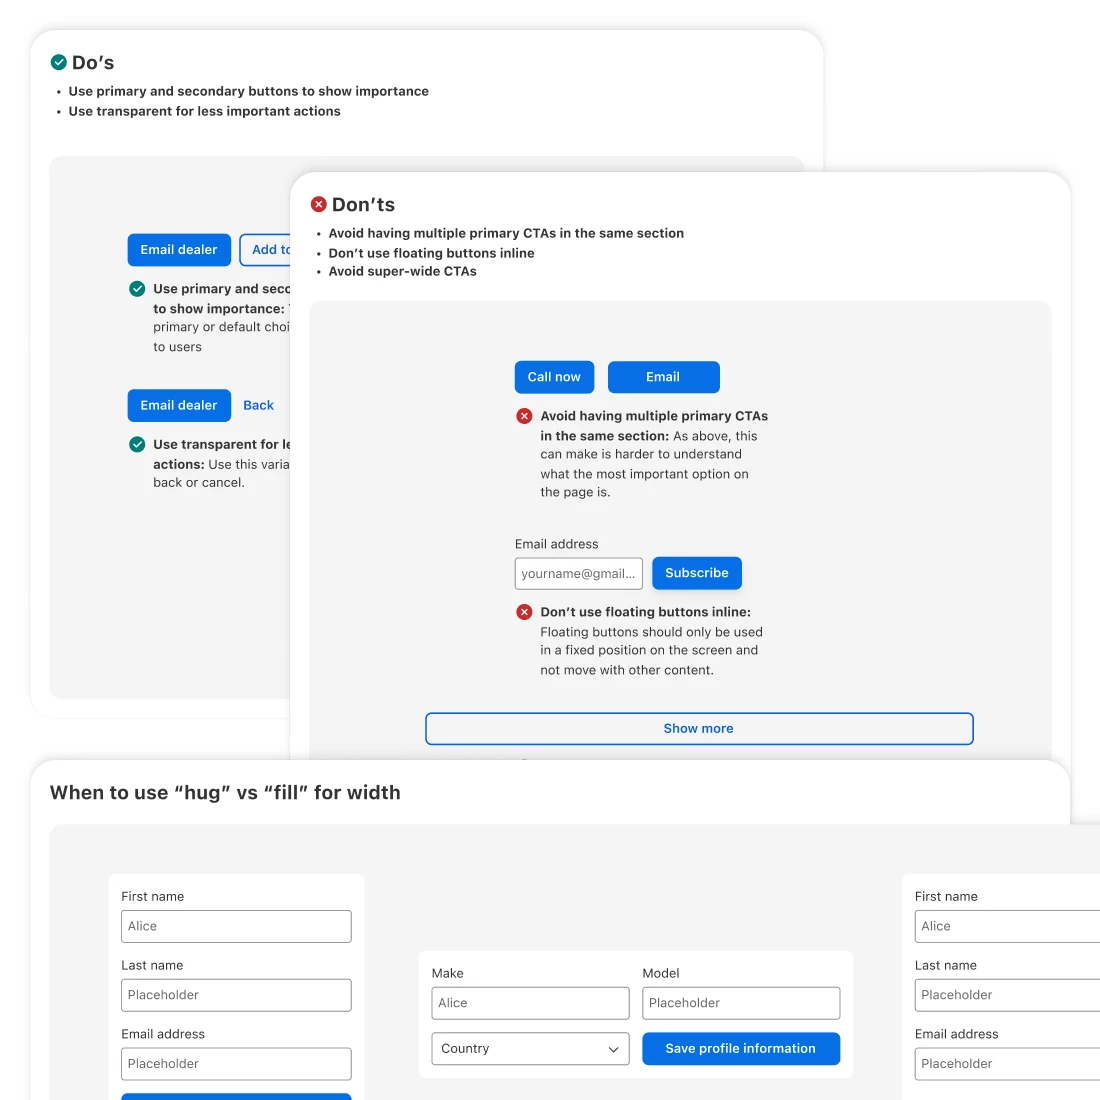
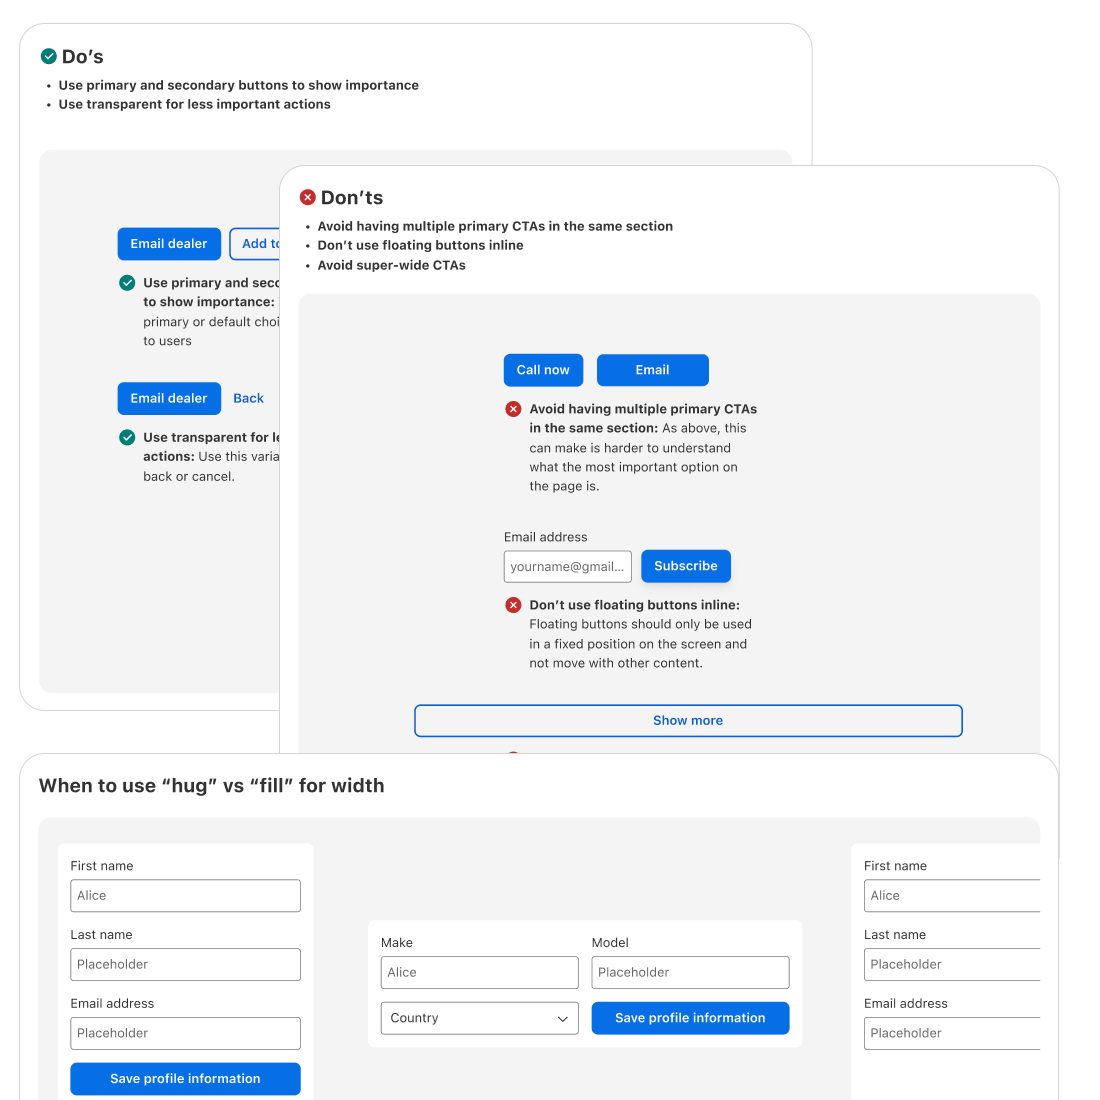
Updated docs image with a 1x copy
Claude-Session: https://claude.ai/code/session_016vAdai3CtSbqx1Acff8fYM

diff --git a/draft/work/showcar/index.html b/draft/work/showcar/index.html
@@ -134,7 +134,7 @@
   <img src="../../../assets/img/showcar/variables.webp?v=2" srcset="../../../assets/img/showcar/variables-550.webp?v=2 550w, ../../../assets/img/showcar/variables.webp?v=2 1100w" sizes="(max-width: 52rem) 100vw, 548px" width="1100" height="1100" loading="lazy" alt="Semantic and component tokens in Figma, with a column per brand mode (AS24, AS24-Future, ATCA). Each brand maps the same token to its own colour, for example surface brand is yellow for AS24 and red for ATCA. A menu shows the mode switcher: AS24, AS24-Future, ATCA, LM, GWAT, ATNL, AKNL and wireframe modes.">
 </div><figcaption class="cap">Brand themes as variable modes in Figma.</figcaption></figure>
 <figure><div class="shot natural" style="--ar: 1 / 1">
-  <img src="../../../assets/img/showcar/docs.webp" width="1100" height="1100" loading="lazy" alt="Showcar button documentation: a Do's panel (use primary and secondary buttons to show importance; use transparent buttons for less important actions), a Don'ts panel (avoid multiple primary CTAs in one section, don't use floating buttons inline, avoid super-wide CTAs), and guidance on when to use hug or fill width, each with live examples.">
+  <img src="../../../assets/img/showcar/docs.webp?v=2" srcset="../../../assets/img/showcar/docs-550.webp?v=2 550w, ../../../assets/img/showcar/docs.webp?v=2 1100w" sizes="(max-width: 52rem) 100vw, 548px" width="1100" height="1100" loading="lazy" alt="Showcar button documentation: a Do's panel (use primary and secondary buttons to show importance; use transparent buttons for less important actions), a Don'ts panel (avoid multiple primary CTAs in one section, don't use floating buttons inline, avoid super-wide CTAs), and guidance on when to use hug or fill width, each with live examples.">
 </div><figcaption class="cap">Every component ships with documentation.</figcaption></figure>
 </div></div></div>
   </div>

diff --git a/README.md b/README.md
@@ -41,7 +41,7 @@ Every image frame on the site shows a hatched placeholder with a brief and a fil
 | `assets/img/showcar/variables.webp` (+ `-550` 1x) | Added: tokens across brand modes, with the mode switcher |
 | `assets/img/showcar/components/<brand>.webp` (+ `-550` 1x) | Added: component sheet per brand (autoscout24, autotrader-ca, autotrader-nl, gebrauchtwagen), 1100 x 940 |
 | `assets/img/showcar/homepages/<brand>.webp` (+ `-550` 1x) | Added: homepage per brand, same four brands, 1100 x 940 |
-| `assets/img/showcar/docs.webp` | Added: button documentation (do's, don'ts, hug vs fill) |
+| `assets/img/showcar/docs.webp` (+ `-550` 1x) | Added: button documentation (do's, don'ts, hug vs fill) |
 | `assets/img/competitive-insights/cover.webp` (+ `cover-620.webp` 1x) | Added: homepage card, competitor table with price development |
 | `assets/img/competitive-insights/hero.jpg` | Product shot of the feature in the inventory list |
 | `assets/img/competitive-insights/workshop.jpg` | Workshop photos or artefacts |
